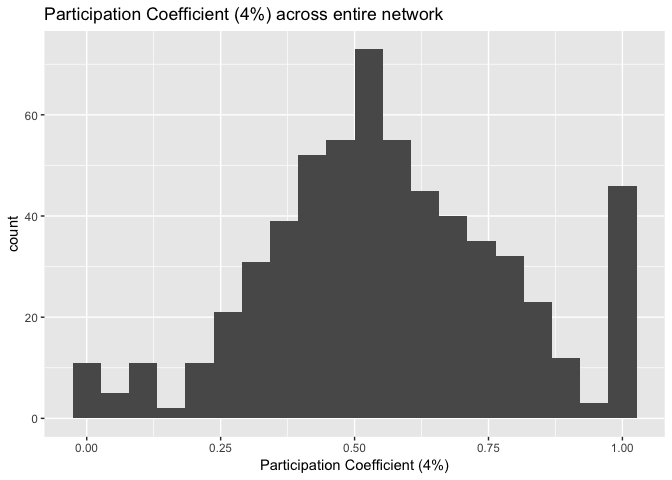
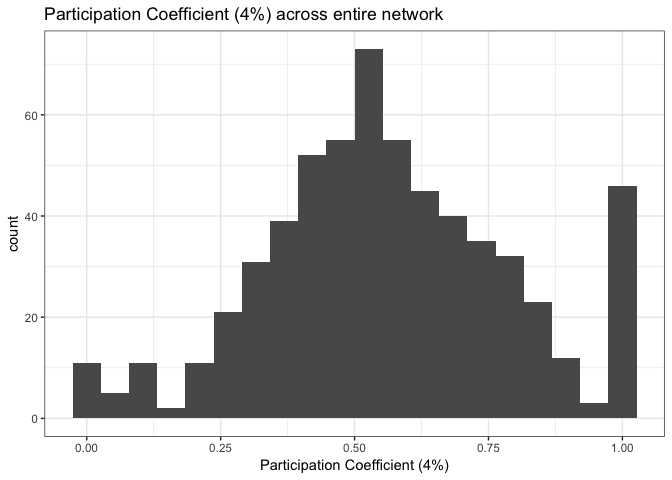
Make heatmap consistent, add documentation suggested by JRieck
* Make node*node heatmap use the same color scheme and range
* Use community label and index for column and row labels in heatmap
* Add “Notes: “ to explain CIFTI structure and usage of community & parcel

diff --git a/cifti_single_sub_sample/cifti_MSC_r.md b/cifti_single_sub_sample/cifti_MSC_r.md
@@ -12,26 +12,31 @@ Micalea Chan
 <!-- end list -->
 
 ``` r
+# Load CIFTI data file
 cii <- read_cifti(mscfile, drop_data = FALSE, trans_data = T) 
 
 # Make brainstructure index
+### Notes: The brainstrucure index lets us filter out anatomical structures based on an 
+###        index (this mirrors the cifti packages in MATLAB)
 cii$brainstructureindex <- as.matrix(NA, dim(cii$data)[1])
 for(i in 1:length(cii$BrainModel)){
   startindx <- as.numeric(attributes(cii$BrainModel[[i]])$IndexOffset + 1)
-  endindx <- as.numeric(attributes(cii$BrainModel[[i]])$IndexOffset+attributes(cii$BrainModel[[i]])$IndexCount)
+  endindx <- as.numeric(attributes(cii$BrainModel[[i]])$IndexOffset + 
+                          attributes(cii$BrainModel[[i]])$IndexCount)
   
   cii$brainstructureindex[startindx:endindx] <- i
 }
 
-# Load parcels
+# Load parcel and community assignment of each vertex (provided with MSC data)
+### Notes: Community is used for identifying parcels into community 
+###        (i.e., sub-network like Default Mode Network)
 parcel <- read_cifti(parcel_file)
 parcel <- as.matrix(parcel$data)
 
-# Load community
 comm <- read_cifti(comm_file)
 comm <- as.matrix(comm$data)
   
-# Check dimension of cifti data (volume/frame x vertices)
+# ==== Check dimension of cifti data (volume/frame x vertices)
 dim(cii$data) # ~ 64k vertices, includes subcortical volumes
 ```
 
@@ -51,6 +56,9 @@ dim(comm)     # surface only, excluded medial wall
 
 ``` r
 # What are the labeled brain structures in the cii file? 
+### Notes: CIFTI data contains the surface (cortx left and right) and subcortical 
+###        structures based on volumetric data. The labels should contain the left & 
+###        right coritcal surface, and individual subcortical labels.
 cifti_brain_structs(cii)
 ```
 
@@ -75,6 +83,8 @@ cifti_brain_structs(cii)
 
 ``` r
 # ==== Take the Left & Right cortex only
+### Notes: subcortical data are not sorted into the community assignments provided by MSC 
+###        data, so only the cortical surface is being analyzed.
 cdata <- as.matrix(cii$data[cii$brainstructureindex==1 | cii$brainstructureindex==2,,])
 # cdata <- cii$data[,,]
 dim(cdata)
@@ -84,24 +94,25 @@ dim(cdata)
 
 ``` r
 u_parcel <- unique(parcel)
-u_parcel <- u_parcel[u_parcel!=0] # Remove parcel 0 and order parcel by #
+u_parcel <- u_parcel[u_parcel!=0] # Remove parcel 0 and order parcel by their number
 ```
 
-## Extract Nodes’ mean time series from surface data
+## Extract the nodes’ mean time series from surface data
 
 ``` r
-# ==== Mask out bad volumes from data
+# ==== Mask out bad frames/volumes from data (i.e., scrubbing; Power et al. 2012, 2014)
+### Notes: The time-mask (tmask) that identifies bad frames are provided with MSC data.
 tmask <- read.table(tmask_file)$V1
 ctmask <- cdata[,as.logical(tmask)]
 
-# ==== Extract mean time series from each parcel -> Parcel x Vol matrix
+# ==== Extract mean time series from each parcel itno a matrix (Parcel x Frame)
 tp <- matrix(0, length(u_parcel), sum(tmask))   
 
 for(i in 1:length(u_parcel)){               
   tp[i,]<- colMeans(ctmask[which(parcel==u_parcel[i]),])
 }
 
-# order by parcel number
+# ==== Order matrix by parcel number
 tp <- tp[order(u_parcel),]
 ```
 
@@ -132,9 +143,9 @@ diag(z) <- 0            # Set diagonal to '0'; not informative
 
 superheat::superheat(z, 
                      y.axis.reverse = TRUE, # Used to make origin (0,0) on top left corner
-                     heat.lim = c(-.1, .5), 
-                     heat.pal = parula(100),# rev(brewer.rdylbu(100)), 
-                     heat.pal.values = c(0, 0.5,1),
+                     heat.lim = c(-.2, .4), 
+                     heat.pal = rev(brewer.rdylbu(100)), 
+                     heat.pal.values = c(0, 0.15, 0.25, 0.75,1),
                      grid.hline = FALSE,
                      grid.vline = FALSE,
                      title="Node x Node Correlation Matrix (z-transformed)")
@@ -147,24 +158,27 @@ superheat::superheat(z,
 ### Setup System Color for Plot
 
 ``` r
-parlabel <- data.frame(parcel_num=sort(u_parcel), community=NA)
+parlabel <- data.frame(parcel_num=sort(u_parcel), community=NA, comm_label=NA, comm_shortlabel=NA)
 plotlabel <- read.csv("../data/systemlabel_MSC.txt", header=F,
                           col.names = c("community","comm_label","color","comm_shortlabel"))
 
 for(i in 1:length(u_parcel)){
-  parlabel$community[i] <- unique(comm[which(parcel==sort(u_parcel)[i])])
+  comm_i <- unique(comm[which(parcel==sort(u_parcel)[i])])
+  parlabel$community[i] <- comm_i
+  parlabel$comm_label[i] <- as.character(plotlabel$comm_label[is.element(plotlabel$community, comm_i)])
+  parlabel$comm_shortlabel[i] <- as.character(plotlabel$comm_shortlabel[is.element(plotlabel$community, comm_i)])
 }
 ```
 
 ``` r
 superheat::superheat(X = z, 
                      y.axis.reverse = TRUE,
-                     membership.rows = parlabel$community,
+                     membership.rows = parlabel$comm_shortlabel,
                      membership.cols = parlabel$community,
                      left.label.col=plotlabel$color,
                      bottom.label.col=plotlabel$color,
                      extreme.values.na = FALSE,
-                     heat.lim = c(-.2, .2), 
+                     heat.lim = c(-.2, .4), 
                      heat.pal = rev(brewer.rdylbu(100)),
                      heat.pal.values = c(0, 0.15, 0.25, 0.75,1),
                      title="Parcel x Parcel Correlation Matrix (z-transformed)")
@@ -180,7 +194,7 @@ z_pos <- z
 z_pos[z<0] <- 0
 ss_pos <- superheat::superheat(X = z_pos, 
                      y.axis.reverse = TRUE,
-                     membership.rows = parlabel$community,
+                     membership.rows = parlabel$comm_shortlabel,
                      membership.cols = parlabel$community,
                      left.label.col=plotlabel$color,
                      bottom.label.col=plotlabel$color,
@@ -197,7 +211,7 @@ z_neg <- z
 z_neg[z>0] <- 0
 ss_neg <- superheat::superheat(X = z_neg, 
                      y.axis.reverse = TRUE,
-                     membership.rows = parlabel$community,
+                     membership.rows = parlabel$comm_shortlabel,
                      membership.cols = parlabel$community,
                      left.label.col=plotlabel$color,
                      bottom.label.col=plotlabel$color,
@@ -220,7 +234,7 @@ gridExtra::grid.arrange(ggplotify::as.grob(ss_pos$plot), ggplotify::as.grob(ss_n
 ``` r
 ss_smooth_pos <- superheat::superheat(X = z_pos, smooth.heat = T, smooth.heat.type = "mean",
                      y.axis.reverse = TRUE,
-                     membership.rows = parlabel$community,
+                     membership.rows = parlabel$comm_shortlabel,
                      membership.cols = parlabel$community,
                      left.label.col=plotlabel$color,
                      bottom.label.col=plotlabel$color,
@@ -234,7 +248,7 @@ ss_smooth_pos <- superheat::superheat(X = z_pos, smooth.heat = T, smooth.heat.ty
 ``` r
 ss_smooth_neg <- superheat::superheat(X = z_neg, smooth.heat = T, smooth.heat.type = "mean",
                      y.axis.reverse = TRUE,
-                     membership.rows = parlabel$community,
+                     membership.rows = parlabel$comm_shortlabel,
                      membership.cols = parlabel$community,
                      left.label.col=plotlabel$color,
                      bottom.label.col=plotlabel$color,
@@ -352,17 +366,19 @@ parlabel$pc_4td <- p$positive
 ggplot(parlabel, aes(x=pc_4td)) +
   geom_histogram(bins=20) +
   xlab("Participation Coefficient (4%)") +
-  ggtitle("Participation Coefficient (4%) across entire network")
+  ggtitle("Participation Coefficient (4%) across entire network") +
+  theme_bw()
 ```
 
 ![](cifti_MSC_r_files/figure-gfm/unnamed-chunk-10-1.png)<!-- -->
 
 ``` r
 ggplot(parlabel, aes(x=pc_4td)) +
-  facet_wrap(~community) +
+  facet_wrap(~comm_shortlabel) +
   geom_histogram(bins = 20) +
   xlab("Participation Coefficient (4%)") +
-  ggtitle("Participation Coefficient (4%) across each sub-network")
+  ggtitle("Participation Coefficient (4%) across each sub-network") +
+  theme_bw()
 ```
 
 ![](cifti_MSC_r_files/figure-gfm/unnamed-chunk-10-2.png)<!-- -->
